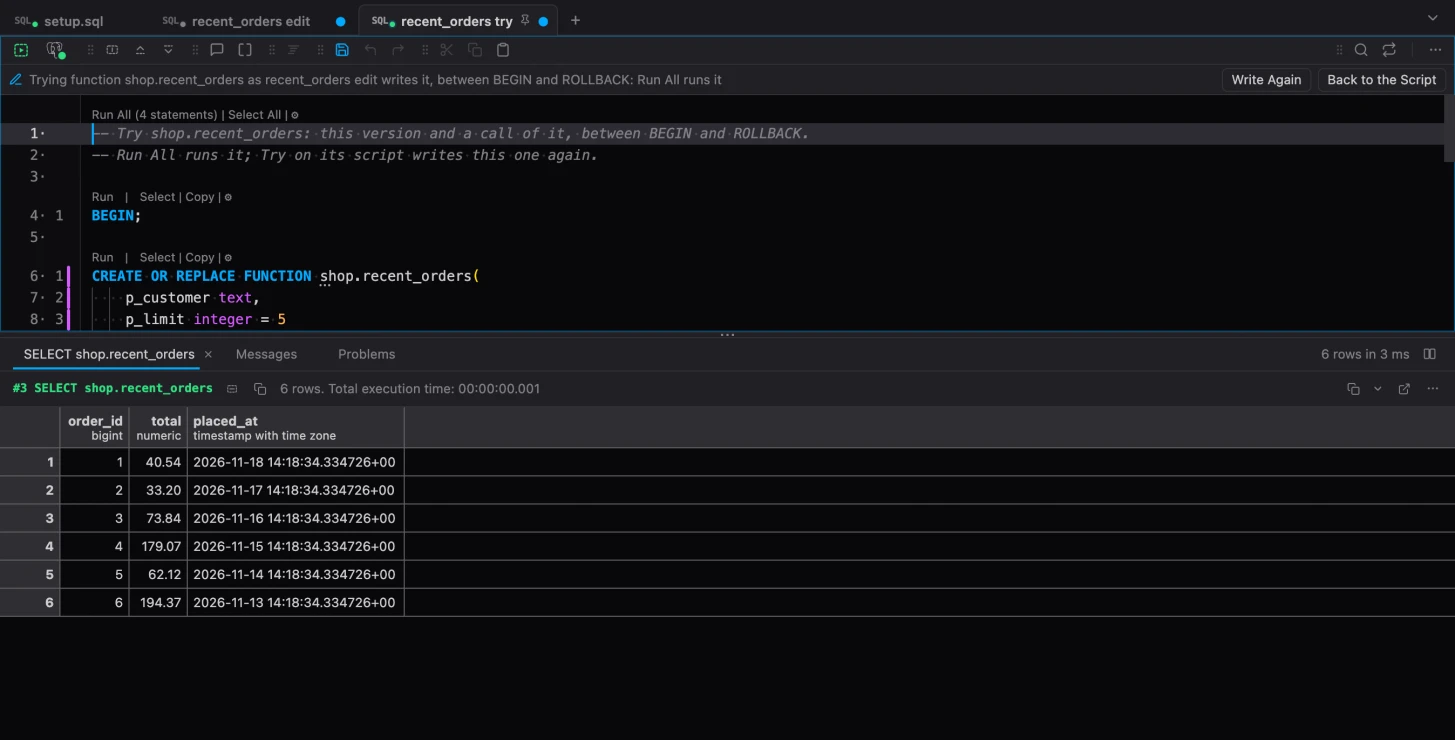
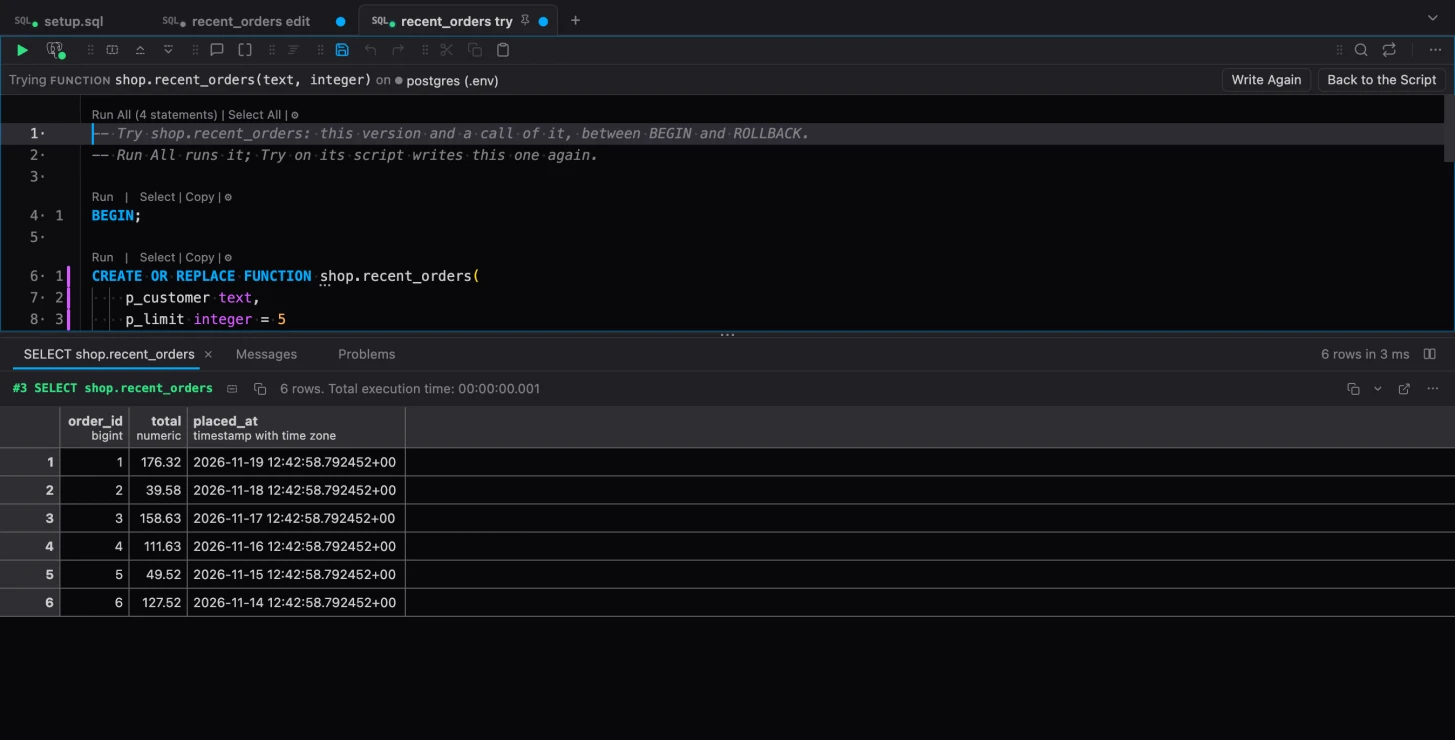
changelog: 0.33.0 notes: Run runs an Edit Function script whole, its connection stays the function's, Copy to a New Script; its pictures again

diff --git a/changelog/free-v0.33.0/README.md b/changelog/free-v0.33.0/README.md
@@ -299,11 +299,16 @@ The script has a toolbar of its own, then which function it edits:
 
 The same are in the editor's right click, under Function.
 
-![A function's code in a script of its own: its toolbar with Try in a Script, Add Test, Compare with Database and Open DDL, then the function it edits](media/edit-function.webp)
+![A function's code in a script of its own: the function it edits and its connection at the left of its toolbar, Try in a Script, Add Test, Compare with Database and Open DDL at the right](media/edit-function.webp)
 
-**Run** applies it, and first checks that nobody changed the function since you opened it; if
-someone did, you choose to replace their change or to compare. After the run the script follows
-the function it made. **Compare with Database** shows your version beside the database's.
+**Run** runs the whole script, the `CREATE OR REPLACE` and your tests below it, and first checks
+that nobody changed the function since you opened it; if someone did, you choose to replace their
+change or to compare. After the run the script follows the function it made. **Compare with
+Database** shows your version beside the database's.
+
+The script stays on the function's connection: its connection cannot be switched, by mistake or
+otherwise. To put the same code on another server, **Copy to a New Script** (right click,
+Function) gives you a plain script you can point anywhere.
 
 ### The signature, before you run
 
